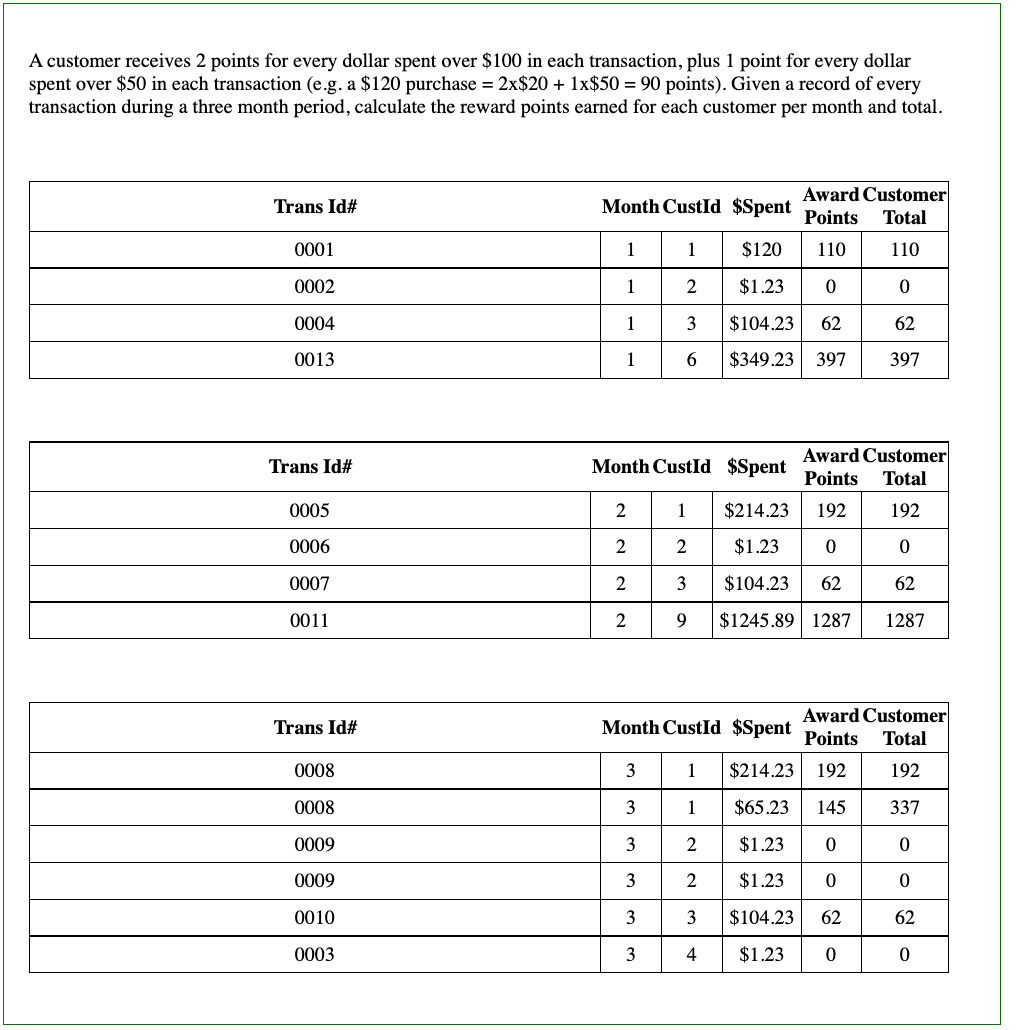
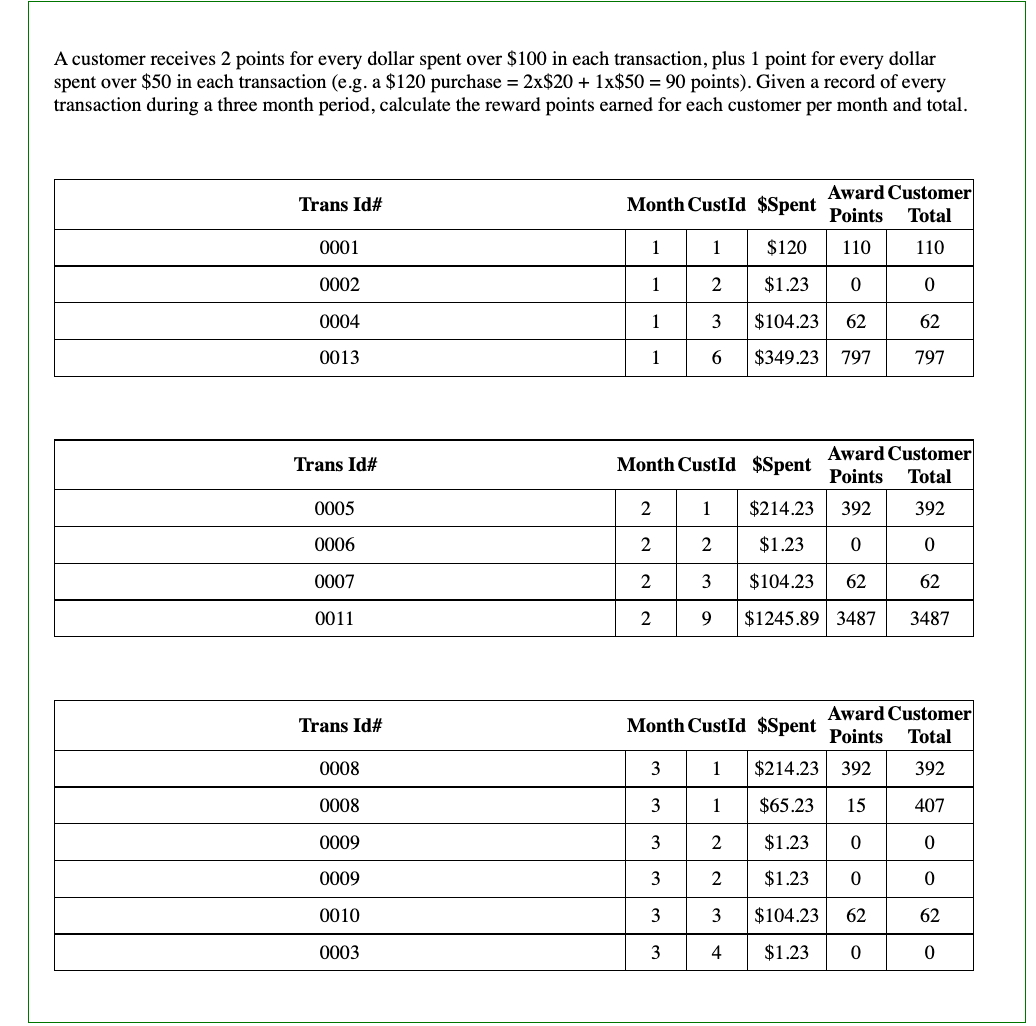
more cleanup. Also modified calculatepoints algorithm

diff --git a/src/components/ProcessAndParse.js b/src/components/ProcessAndParse.js
@@ -1,4 +1,3 @@
-import FetchTransactions from "./FetchTransactions";
 import CalculatePoints from './CalculatePoints';
 
 function ProcessAndParse(transactionData) {
@@ -73,36 +72,6 @@ function ParseByCustomer(monthNumber, monthData) {
 
   return retVal;
 }
-
-function ParseByCustomer1(monthNumber, monthData) {
-  let uniqueCustomerIds = getUniqueCustomerIds(monthData);
-  let retVal = [];
-
-  // Step3: For each month and For each unique customer, 
-  //  add up all their transactions for the month
-  //  compute the number of reward points for the month   
-  for (var i = 0; i < uniqueCustomerIds.length; i++) {
-    // customerSpentAmounts is an array containing all transactions from a specific
-    // customer
-    let customerId = uniqueCustomerIds[i].CustomerId;
-    let customerSpentAmounts = monthData.filter(x => x.CustomerId === customerId);
-    let totalSpentByCustomer = 0;
-    let points = 0;
-    for (var j = 0; j < customerSpentAmounts.length; j++) {
-      totalSpentByCustomer += customerSpentAmounts[j].AmountSpent;
-      points += CalculatePoints(customerSpentAmounts[j].AmountSpent);
-    }
-
-    monthData[i].points = points;
-
-    // let points = CalculatePoints(totalSpent); //3, customerId, customerSpentAmounts);
-    console.log(`Month: ${monthNumber} CustomerId: ${customerId} TotalSpent: ${totalSpentByCustomer}, Points: ${points}`);
-
-
-    // retVal.push( { customerId: customerId, totalSpent: totalSpentByCustomer, points: points})
-  }
-}
-
 
 function getUniqueCustomerIds(secondMonth) {
   const keys1 = ['CustomerId'];

diff --git a/src/components/CalculatePoints.js b/src/components/CalculatePoints.js
@@ -5,10 +5,14 @@
 
 
 function CalculatePoints(transactionAmount) { 
-  if (transactionAmount <= 50) return 0;
+  var points = 0;
+  if (transactionAmount <= 50) return points;
 
-  var points = (transactionAmount % 100) * 2;
-  points += (transactionAmount - 50);
+  points = (transactionAmount - 50);  // every dollar spent over $50
+  if (transactionAmount > 100) {
+    points += (transactionAmount - 100) * 2; // every dollar spent over $100*2
+  }
+  
   return Math.floor(points);
 }
 

diff --git a/README.md b/README.md
@@ -6,7 +6,27 @@ A customer receives 2 points for every dollar spent over $100 in each transactio
 (e.g. a $120 purchase = 2x$20 + 1x$50 = 90 points).
  
 Given a record of every transaction during a three month period, calculate the reward points earned for each customer per month and total.
- 
+
+## Notes:
+
+The instructions say that "there should be 1 point for every dollar spent over $50 in each transaction". Seems like the point total for a $120 transaction should be 2X$20 + 1x$70.
+
+In any case, the simple algorithm is located in /src/components/CalculatePoints.js and can be tweaked when necessary:
+
+```
+function CalculatePoints(transactionAmount) { 
+  var points = 0;
+  if (transactionAmount <= 50) return points;
+
+  points = (transactionAmount - 50);  // every dollar spent over $50
+  if (transactionAmount > 100) {
+    points += (transactionAmount - 100) * 2; // every dollar spent over $100*2
+  }
+  
+  return Math.floor(points);
+}
+```
+
 ## Requirements
 
 Use React JS (do not use TypeScript)
